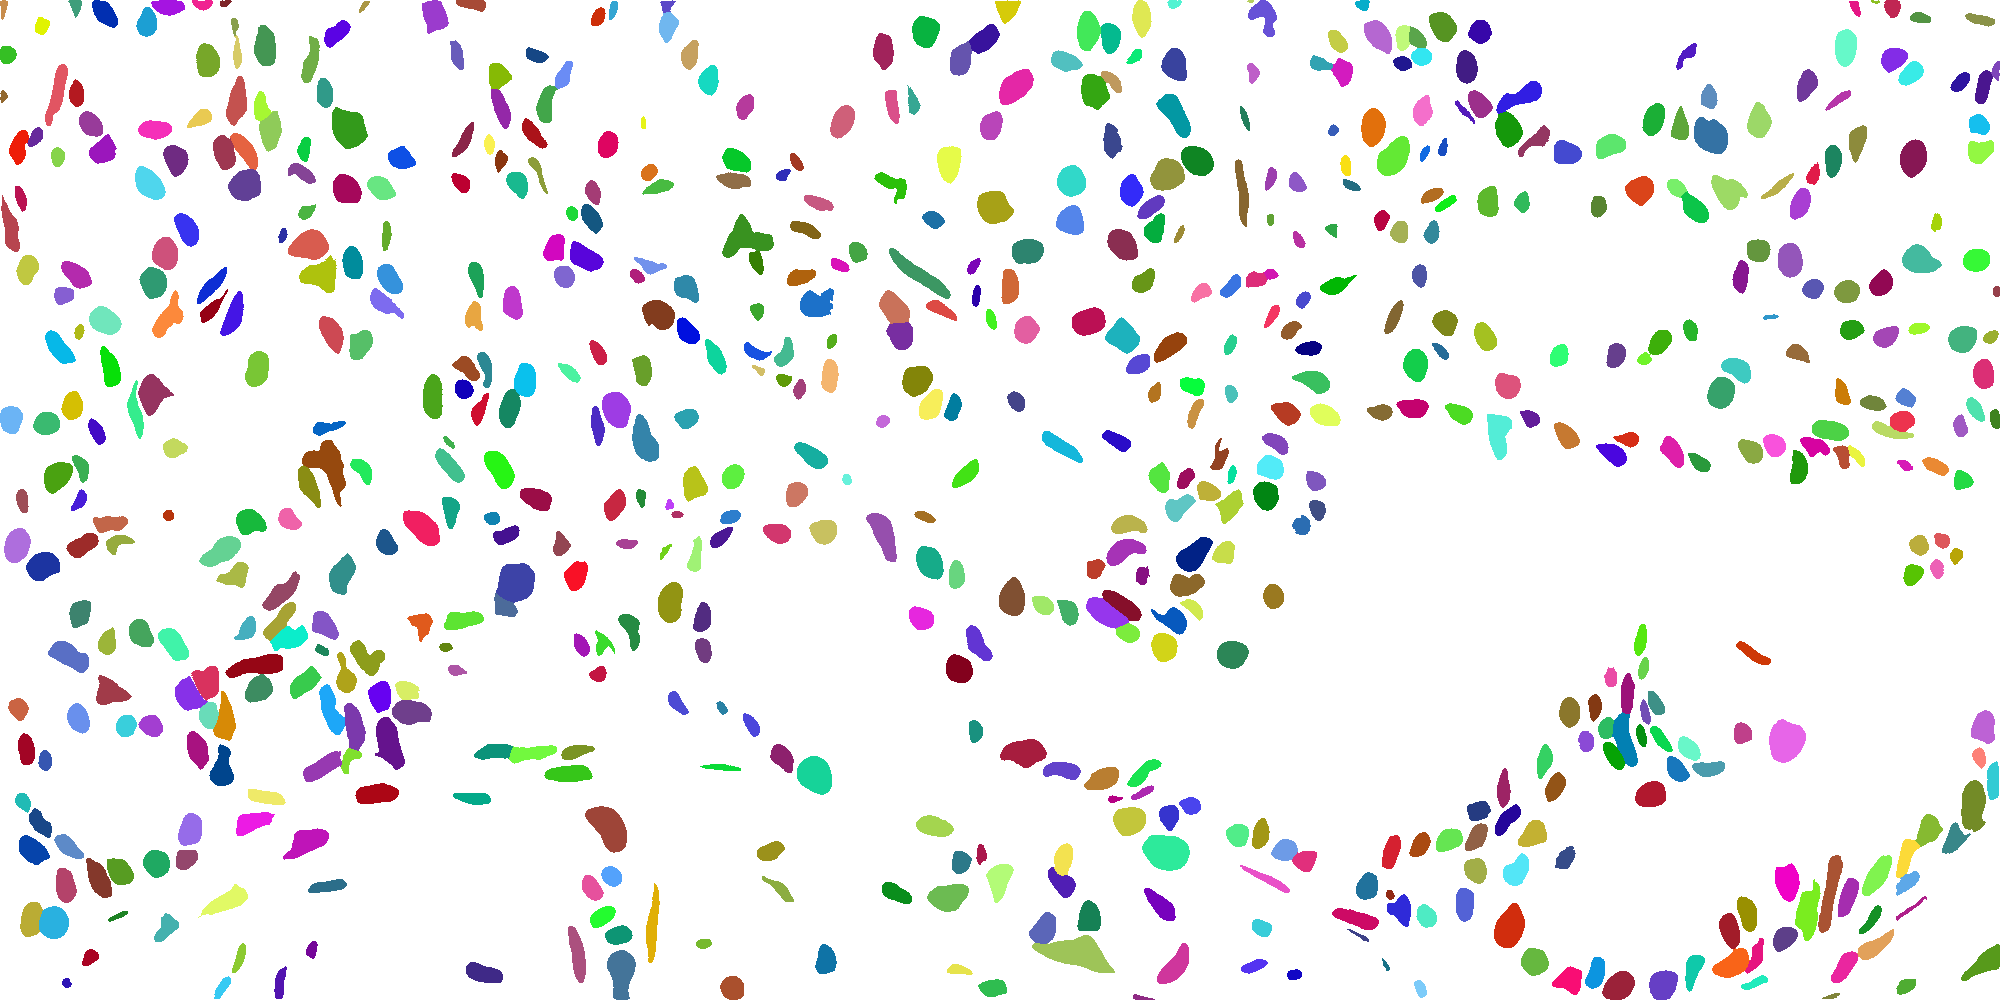
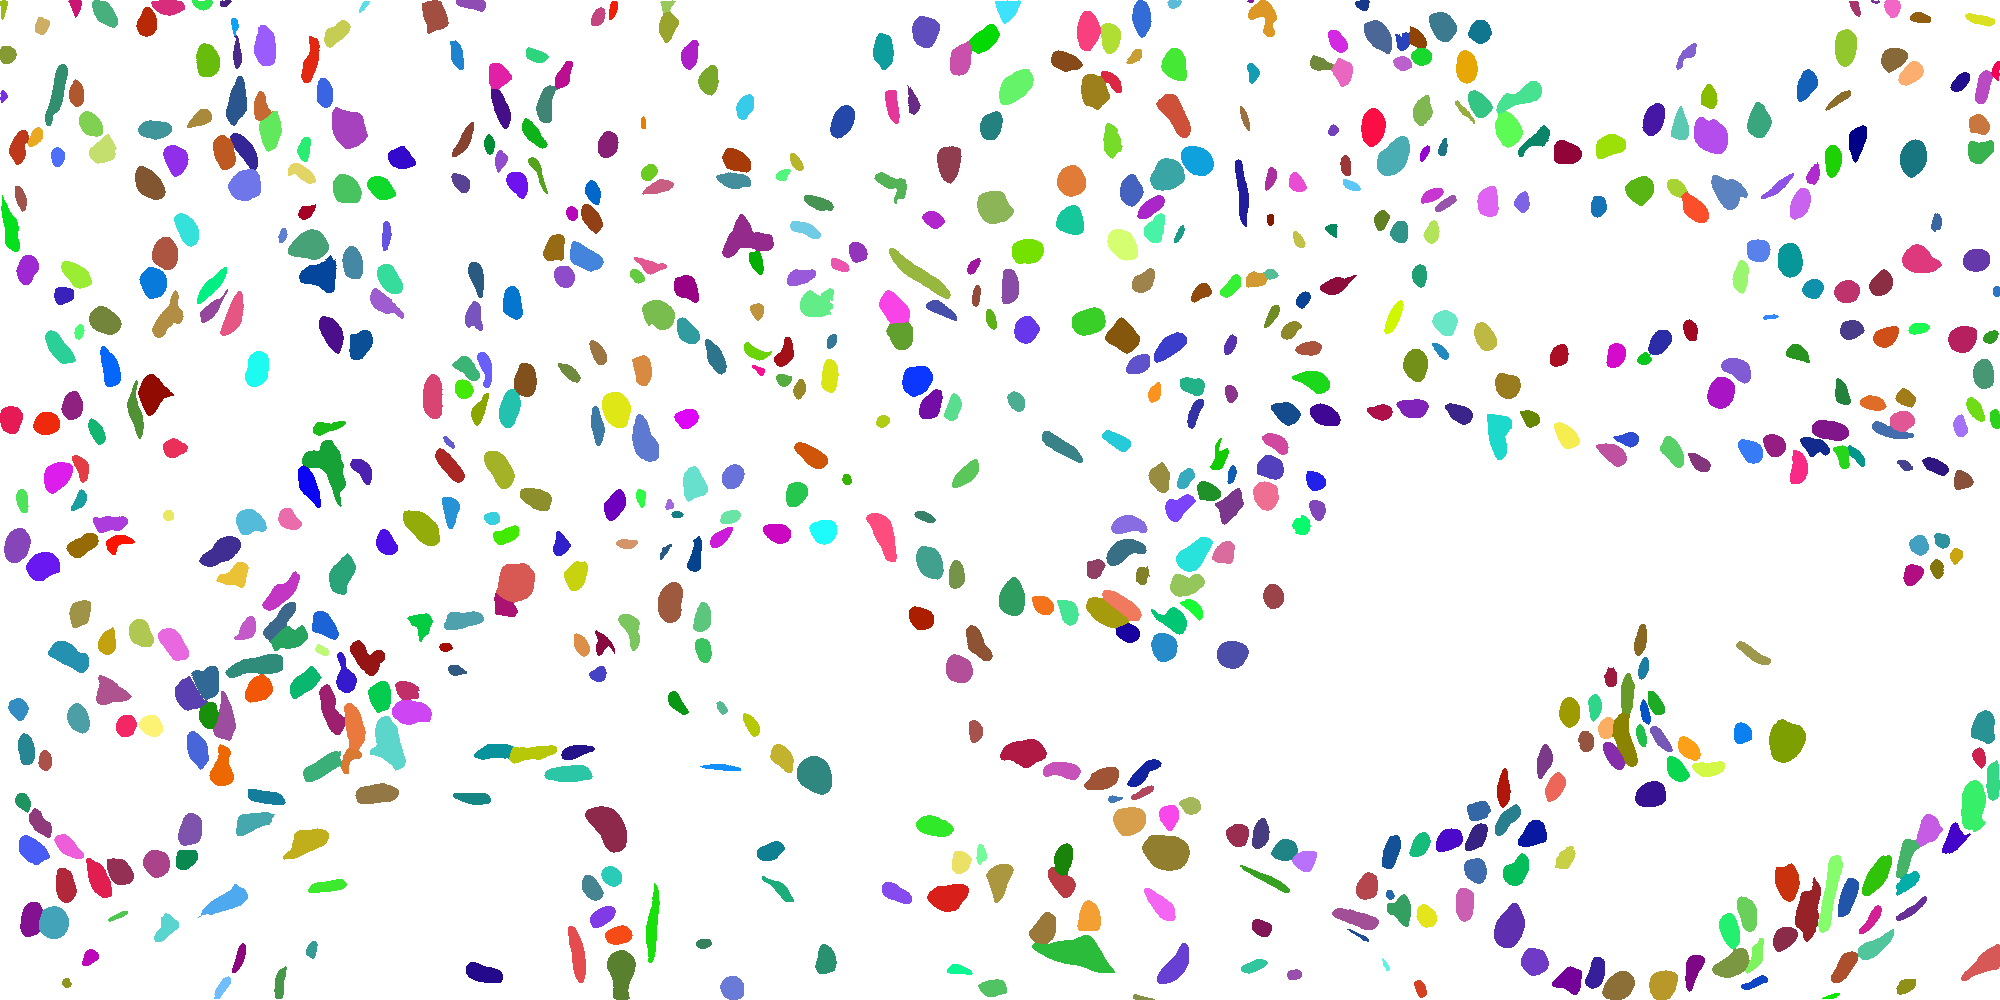
Unit log

diff --git a/percell_sicle_cellprob_pipeline.py b/percell_sicle_cellprob_pipeline.py
@@ -90,6 +90,16 @@ def cellprob_crop_to_saliency_u8(cellprob_crop: "np.ndarray") -> "np.ndarray":
     return (sal * 255.0).astype(np.uint8)
 
 
+def apply_saliency_threshold_u8(sal_u8: "np.ndarray", thr01: float) -> "np.ndarray":
+    """Threshold saliency in [0,1]: values below threshold become 0."""
+    import numpy as np
+
+    s = np.asarray(sal_u8, dtype=np.uint8).copy()
+    t = int(round(float(thr01) * 255.0))
+    s[s < t] = 0
+    return s
+
+
 def bbox_for_label(
     masks: "np.ndarray", label: int, margin: int, h: int, w: int
 ) -> tuple[int, int, int, int]:
@@ -204,6 +214,29 @@ def _write_ovlay_labels_pgm(merged: "np.ndarray", path: Path) -> None:
     Image.fromarray(np.asarray(merged, dtype=np.uint8), mode="L").save(path)
 
 
+def _write_percell_debug_outputs(
+    cell_dir: Path,
+    input_crop_rgb: "np.ndarray | None",
+    sal_u8: "np.ndarray",
+    output_in_cell: "np.ndarray",
+) -> None:
+    """Write per-cell debug assets: input image, saliency map, and output-in-cell mask."""
+    import numpy as np
+    from PIL import Image
+
+    cell_dir.mkdir(parents=True, exist_ok=True)
+    if input_crop_rgb is None:
+        # Fallback when no --image is provided: visualize saliency as gray RGB.
+        input_crop_rgb = np.stack([sal_u8, sal_u8, sal_u8], axis=-1)
+    input_u8 = np.asarray(input_crop_rgb[..., :3], dtype=np.uint8)
+    sal_u8 = np.asarray(sal_u8, dtype=np.uint8)
+    out_u8 = (np.asarray(output_in_cell, dtype=bool).astype(np.uint8) * 255)
+
+    Image.fromarray(input_u8).save(cell_dir / "input_image.png")
+    Image.fromarray(sal_u8, mode="L").save(cell_dir / "saliency_map.png")
+    Image.fromarray(out_u8, mode="L").save(cell_dir / "output_in_cell.png")
+
+
 def main() -> int:
     import numpy as np
     from cellpose import plot
@@ -259,6 +292,15 @@ def main() -> int:
     p.add_argument("--sicle-irreg", type=float, default=SICLE_IRREG_DEFAULT)
     p.add_argument("--sicle-adhr", type=int, default=SICLE_ADHR_DEFAULT)
     p.add_argument(
+        "--saliency-threshold",
+        type=float,
+        default=0.3,
+        help=(
+            "Threshold in [0,1] applied to per-cell saliency before SICLE "
+            "(values below threshold are set to 0). Default: 0.3"
+        ),
+    )
+    p.add_argument(
         "--run-ovlay-borders",
         action="store_true",
         help=(
@@ -276,15 +318,32 @@ def main() -> int:
         raise SystemExit("--overlay-border-thickness must be >= 1")
     if args.fg_erosion_pixels < 0:
         raise SystemExit("--fg-erosion-pixels must be >= 0")
+    if not (0.0 <= args.saliency_threshold <= 1.0):
+        raise SystemExit("--saliency-threshold must be in [0,1]")
 
     from_dir = Path(args.from_dir)
     out_dir = Path(args.out_dir)
     out_dir.mkdir(parents=True, exist_ok=True)
+    percell_dir = out_dir / "percell_cell_outputs"
+    percell_dir.mkdir(parents=True, exist_ok=True)
 
     cellprob, masks = load_cellprob_masks(from_dir)
     h, w = cellprob.shape
     if masks.shape != (h, w):
         raise SystemExit(f"shape mismatch cellprob {cellprob.shape} vs masks {masks.shape}")
+
+    img_rgb_resized = None
+    if args.image:
+        from cellpose import io
+
+        img = io.imread(args.image)
+        if img.ndim == 2:
+            img = np.stack([img, img, img], axis=-1)
+        if img.shape[0] != h or img.shape[1] != w:
+            import cv2
+
+            img = cv2.resize(img, (w, h), interpolation=cv2.INTER_LINEAR)
+        img_rgb_resized = np.asarray(img[..., :3], dtype=np.uint8)
 
     sicle_bin = find_sicle_binary()
     conn_opt, crit_opt = resolve_sicle_path_cost(
@@ -301,20 +360,25 @@ def main() -> int:
             r0, r1, c0, c1 = bbox_for_label(masks, lab, args.margin, h, w)
             crop_cp = cellprob[r0:r1, c0:c1]
             crop_m = (masks[r0:r1, c0:c1] == lab).astype(np.uint8)
+            sal_u8 = cellprob_crop_to_saliency_u8(crop_cp)
+            sal_u8 = apply_saliency_threshold_u8(sal_u8, args.saliency_threshold)
+            crop_input = None if img_rgb_resized is None else img_rgb_resized[r0:r1, c0:c1]
             area = int(crop_m.sum())
+            name = f"cell_{lab:05d}"
+            output_in_cell = crop_m.astype(bool)
             if area < args.min_cell_area:
-                merged[r0:r1, c0:c1][crop_m.astype(bool)] = lab
+                merged[r0:r1, c0:c1][output_in_cell] = lab
                 meta.append(f"label {lab}: area={area} < min_cell_area, kept Cellpose mask")
+                _write_percell_debug_outputs(percell_dir / name, crop_input, sal_u8, output_in_cell)
                 continue
 
-            sal_u8 = cellprob_crop_to_saliency_u8(crop_cp)
             fg = fg_scribble_coords(crop_m.astype(bool), erosion_pixels=args.fg_erosion_pixels)
             if not fg:
-                merged[r0:r1, c0:c1][crop_m.astype(bool)] = lab
+                merged[r0:r1, c0:c1][output_in_cell] = lab
                 meta.append(f"label {lab}: no fg seeds, kept Cellpose mask")
+                _write_percell_debug_outputs(percell_dir / name, crop_input, sal_u8, output_in_cell)
                 continue
 
-            name = f"cell_{lab:05d}"
             try:
                 sicle_lbl = run_sicle_on_crop(
                     sal_u8,
@@ -332,14 +396,18 @@ def main() -> int:
                     crit_opt=crit_opt,
                 )
             except Exception as e:
-                merged[r0:r1, c0:c1][crop_m.astype(bool)] = lab
+                merged[r0:r1, c0:c1][output_in_cell] = lab
                 meta.append(f"label {lab}: SICLE failed ({e}), kept Cellpose mask")
+                _write_percell_debug_outputs(percell_dir / name, crop_input, sal_u8, output_in_cell)
                 continue
 
             obj = sicle_lbl == 1
-            place = obj & crop_m.astype(bool)
-            merged[r0:r1, c0:c1][place] = lab
-            meta.append(f"label {lab}: bbox=({r0},{r1},{c0},{c1}) placed_pixels={int(place.sum())}")
+            output_in_cell = obj & crop_m.astype(bool)
+            merged[r0:r1, c0:c1][output_in_cell] = lab
+            meta.append(
+                f"label {lab}: bbox=({r0},{r1},{c0},{c1}) placed_pixels={int(output_in_cell.sum())}"
+            )
+            _write_percell_debug_outputs(percell_dir / name, crop_input, sal_u8, output_in_cell)
 
     np.save(out_dir / "merged_percell_sicle_masks_int32.npy", merged)
     try:
@@ -358,6 +426,7 @@ def main() -> int:
                 f"cells: {len(labels)}",
                 f"margin: {args.margin}",
                 f"fg_erosion_pixels: {args.fg_erosion_pixels}",
+                f"saliency_threshold: {args.saliency_threshold}",
                 f"sicle preset: {args.sicle_preset} conn={conn_opt} crit={crit_opt}",
                 "",
                 *meta,
@@ -366,19 +435,8 @@ def main() -> int:
         encoding="utf-8",
     )
 
-    img_rgb_resized = None
     if args.image:
-        from cellpose import io
         from PIL import Image
-
-        img = io.imread(args.image)
-        if img.ndim == 2:
-            img = np.stack([img, img, img], axis=-1)
-        if img.shape[0] != h or img.shape[1] != w:
-            import cv2
-
-            img = cv2.resize(img, (w, h), interpolation=cv2.INTER_LINEAR)
-        img_rgb_resized = np.asarray(img[..., :3], dtype=np.uint8)
         ov = _outline_only_overlay(
             img_rgb_resized,
             merged,
@@ -422,6 +480,7 @@ def main() -> int:
     print(f"Wrote {out_dir / 'merged_percell_sicle_masks_int32.npy'}")
     print(f"Wrote {out_dir / 'merged_percell_sicle_masks_rgb.png'}")
     print(f"Wrote {out_dir / 'percell_sicle_log.txt'}")
+    print(f"Wrote per-cell outputs in {percell_dir}")
     if args.image:
         print(f"Wrote {out_dir / 'merged_percell_sicle_overlay.png'}")
     if args.run_ovlay_borders and (out_dir / "merged_percell_sicle_ovlay_borders.ppm").is_file():